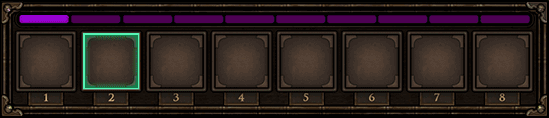
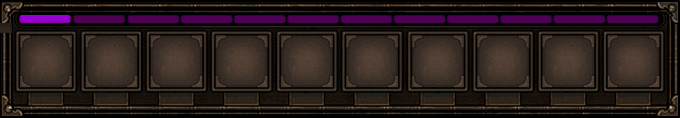
+ bottom fixed + handle keys

diff --git a/src/components/GameContainer/GameContainer.js b/src/components/GameContainer/GameContainer.js
@@ -4,16 +4,22 @@ import BottomInterface from "../BottomInterface";
 
 class GameContainer extends Component {
 
+    handleKeyDown = (event) => {
+        console.log(event.keyCode);
+    }
+
+
     componentDidMount() {
         console.log('tworzymy gre!');
         window.Game = createGame();
+        document.addEventListener("keydown", this.handleKeyDown);
     }
 
     render() {
         return (
             <>
                 <div id="gameContainer"/>
-                <BottomInterface />
+                <BottomInterface/>
             </>
         )
     }

diff --git a/src/components/BottomInterface/BottomInterface.js b/src/components/BottomInterface/BottomInterface.js
@@ -1,11 +1,24 @@
 import React, { Component } from 'react';
 import './BottomInterface.css';
 
+const PANEL_COUNT = 8;
+
 class BottomInterface extends Component {
 
+    preparePanels() {
+        for (let i = 0; i < PANEL_COUNT; i++) {
+            return <div className="panel">
+
+            </div>
+        }
+    }
+
     render() {
+
         return (
-            <div id="BottomInterface"/>
+            <div id="BottomInterface">
+                {this.preparePanels()}
+            </div>
         )
     }
 }

diff --git a/src/components/BottomInterface/BottomInterface.css b/src/components/BottomInterface/BottomInterface.css
@@ -1,6 +1,7 @@
 #BottomInterface {
     background: url('/assets/interface/bottom.png');
-    width: 549px;
+    width: 680px;
     height: 118px;
     margin: 0 auto;
 }
+
